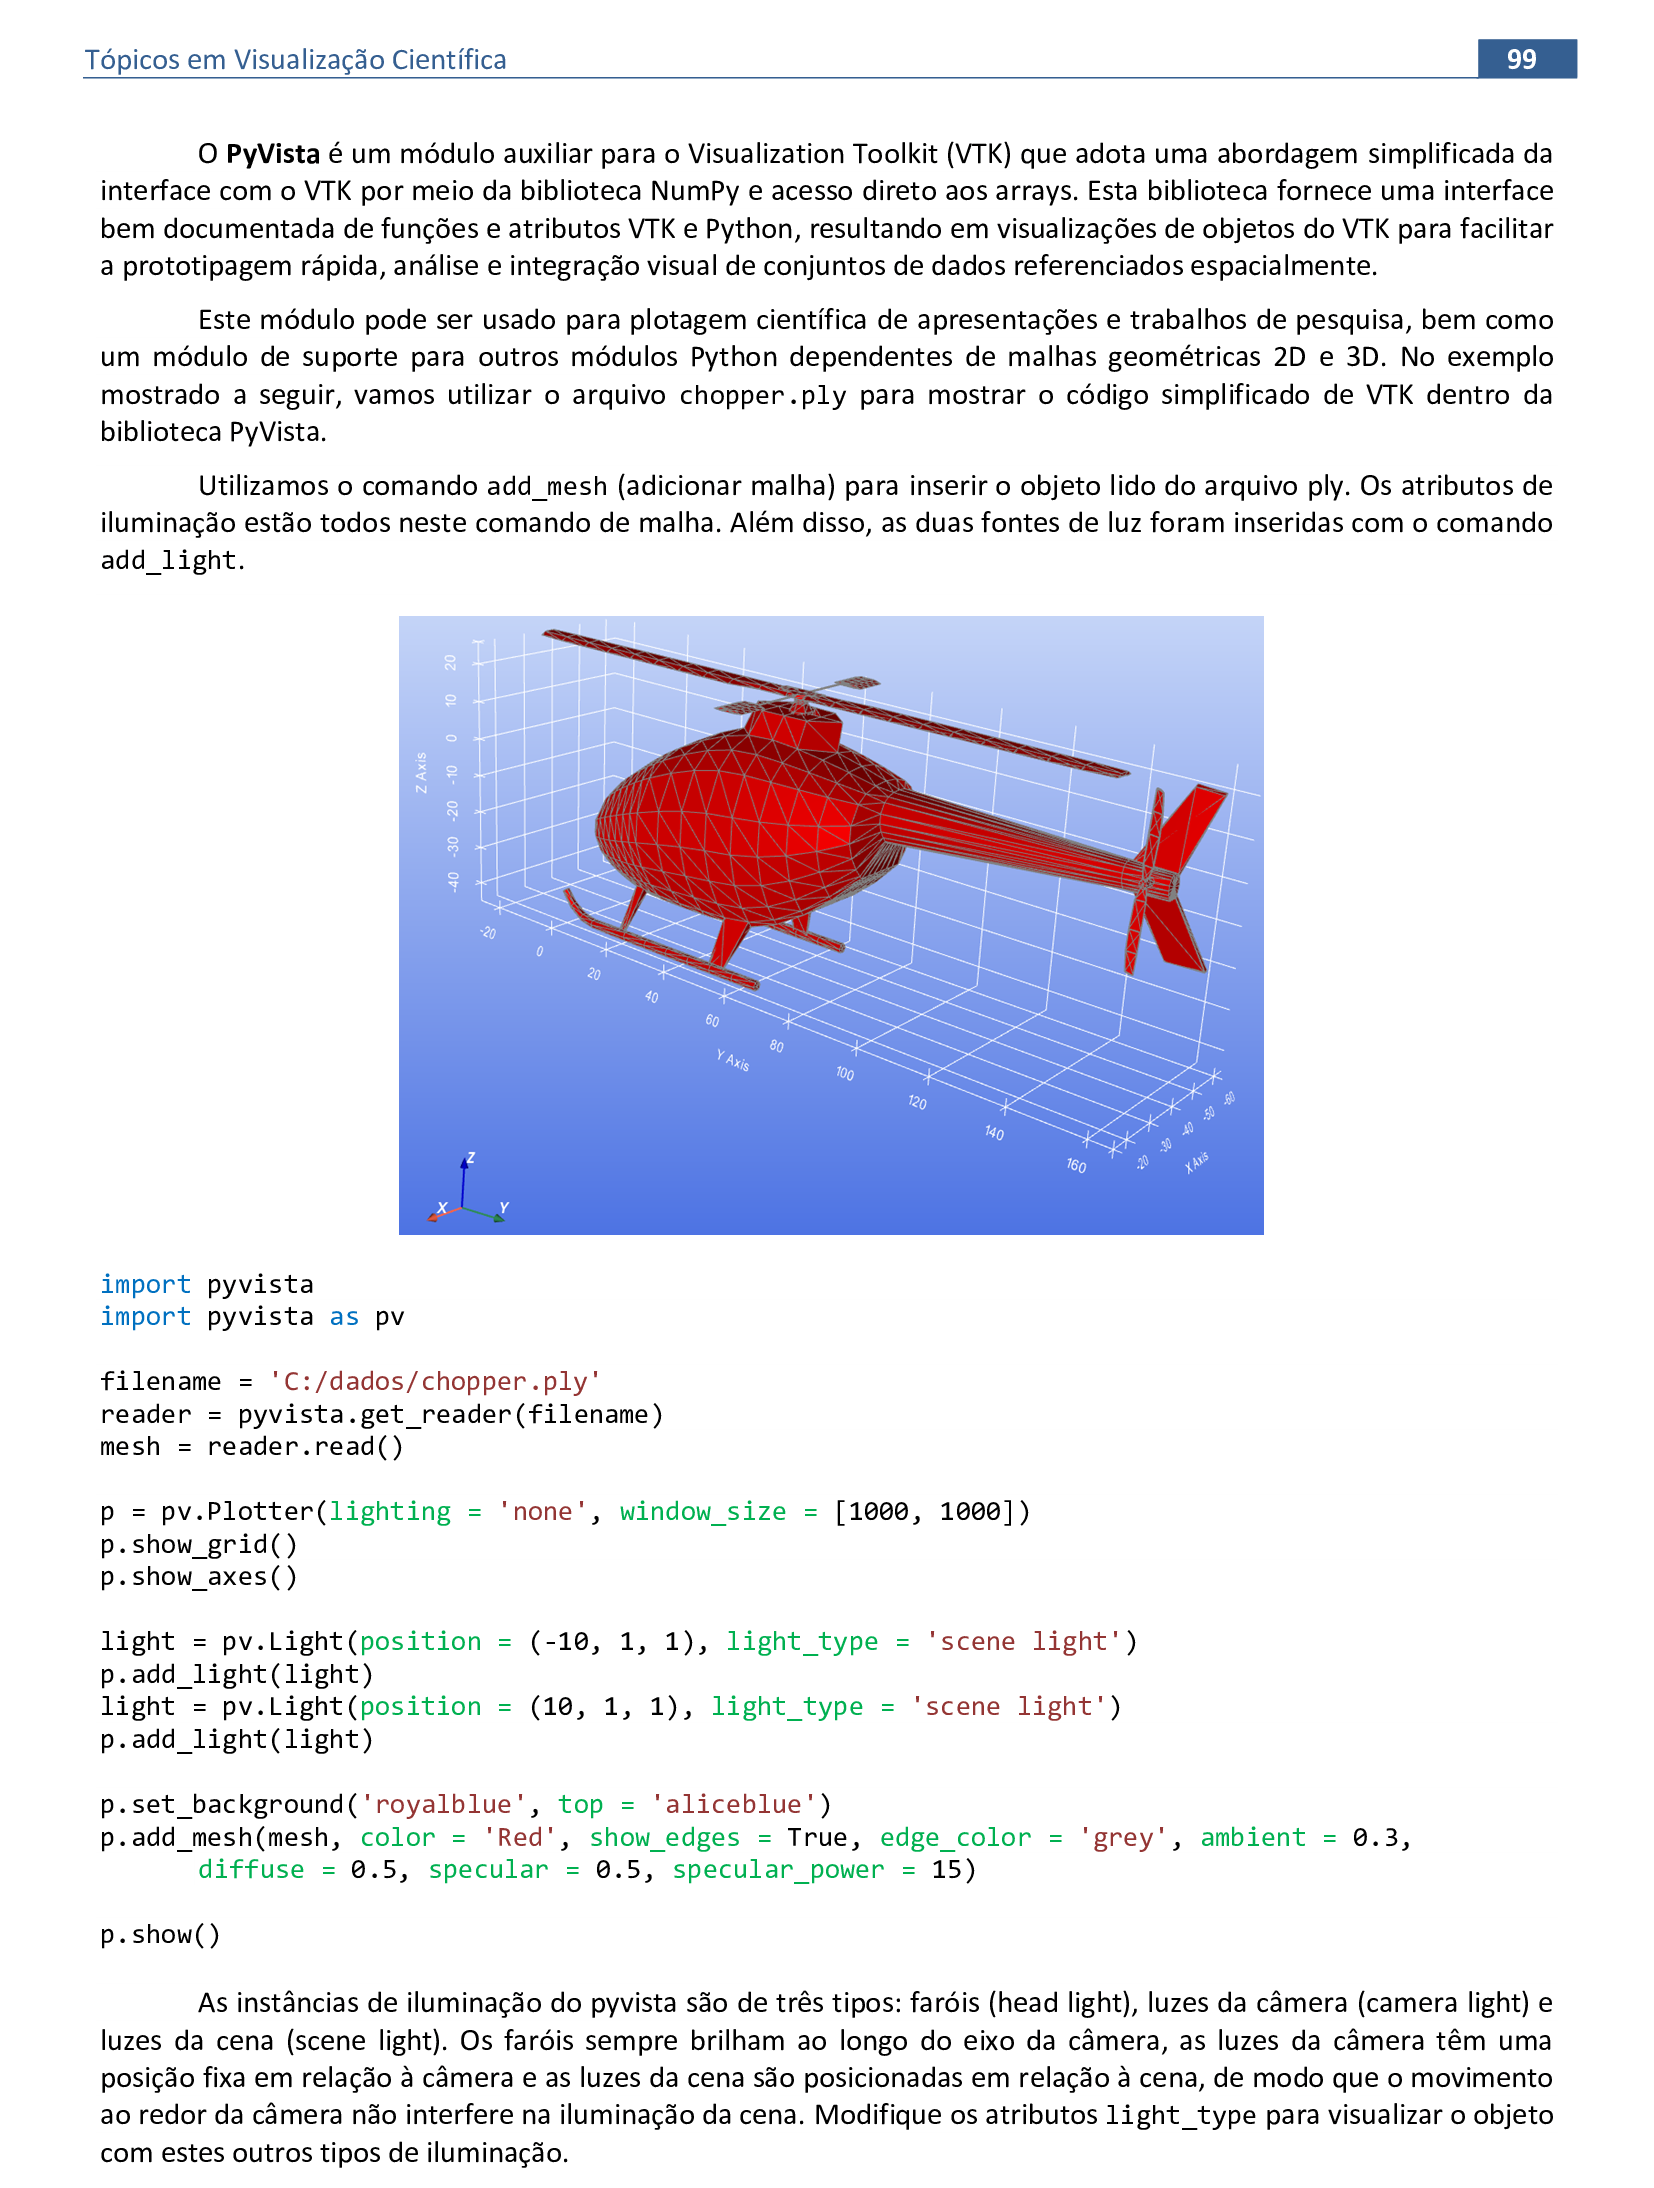
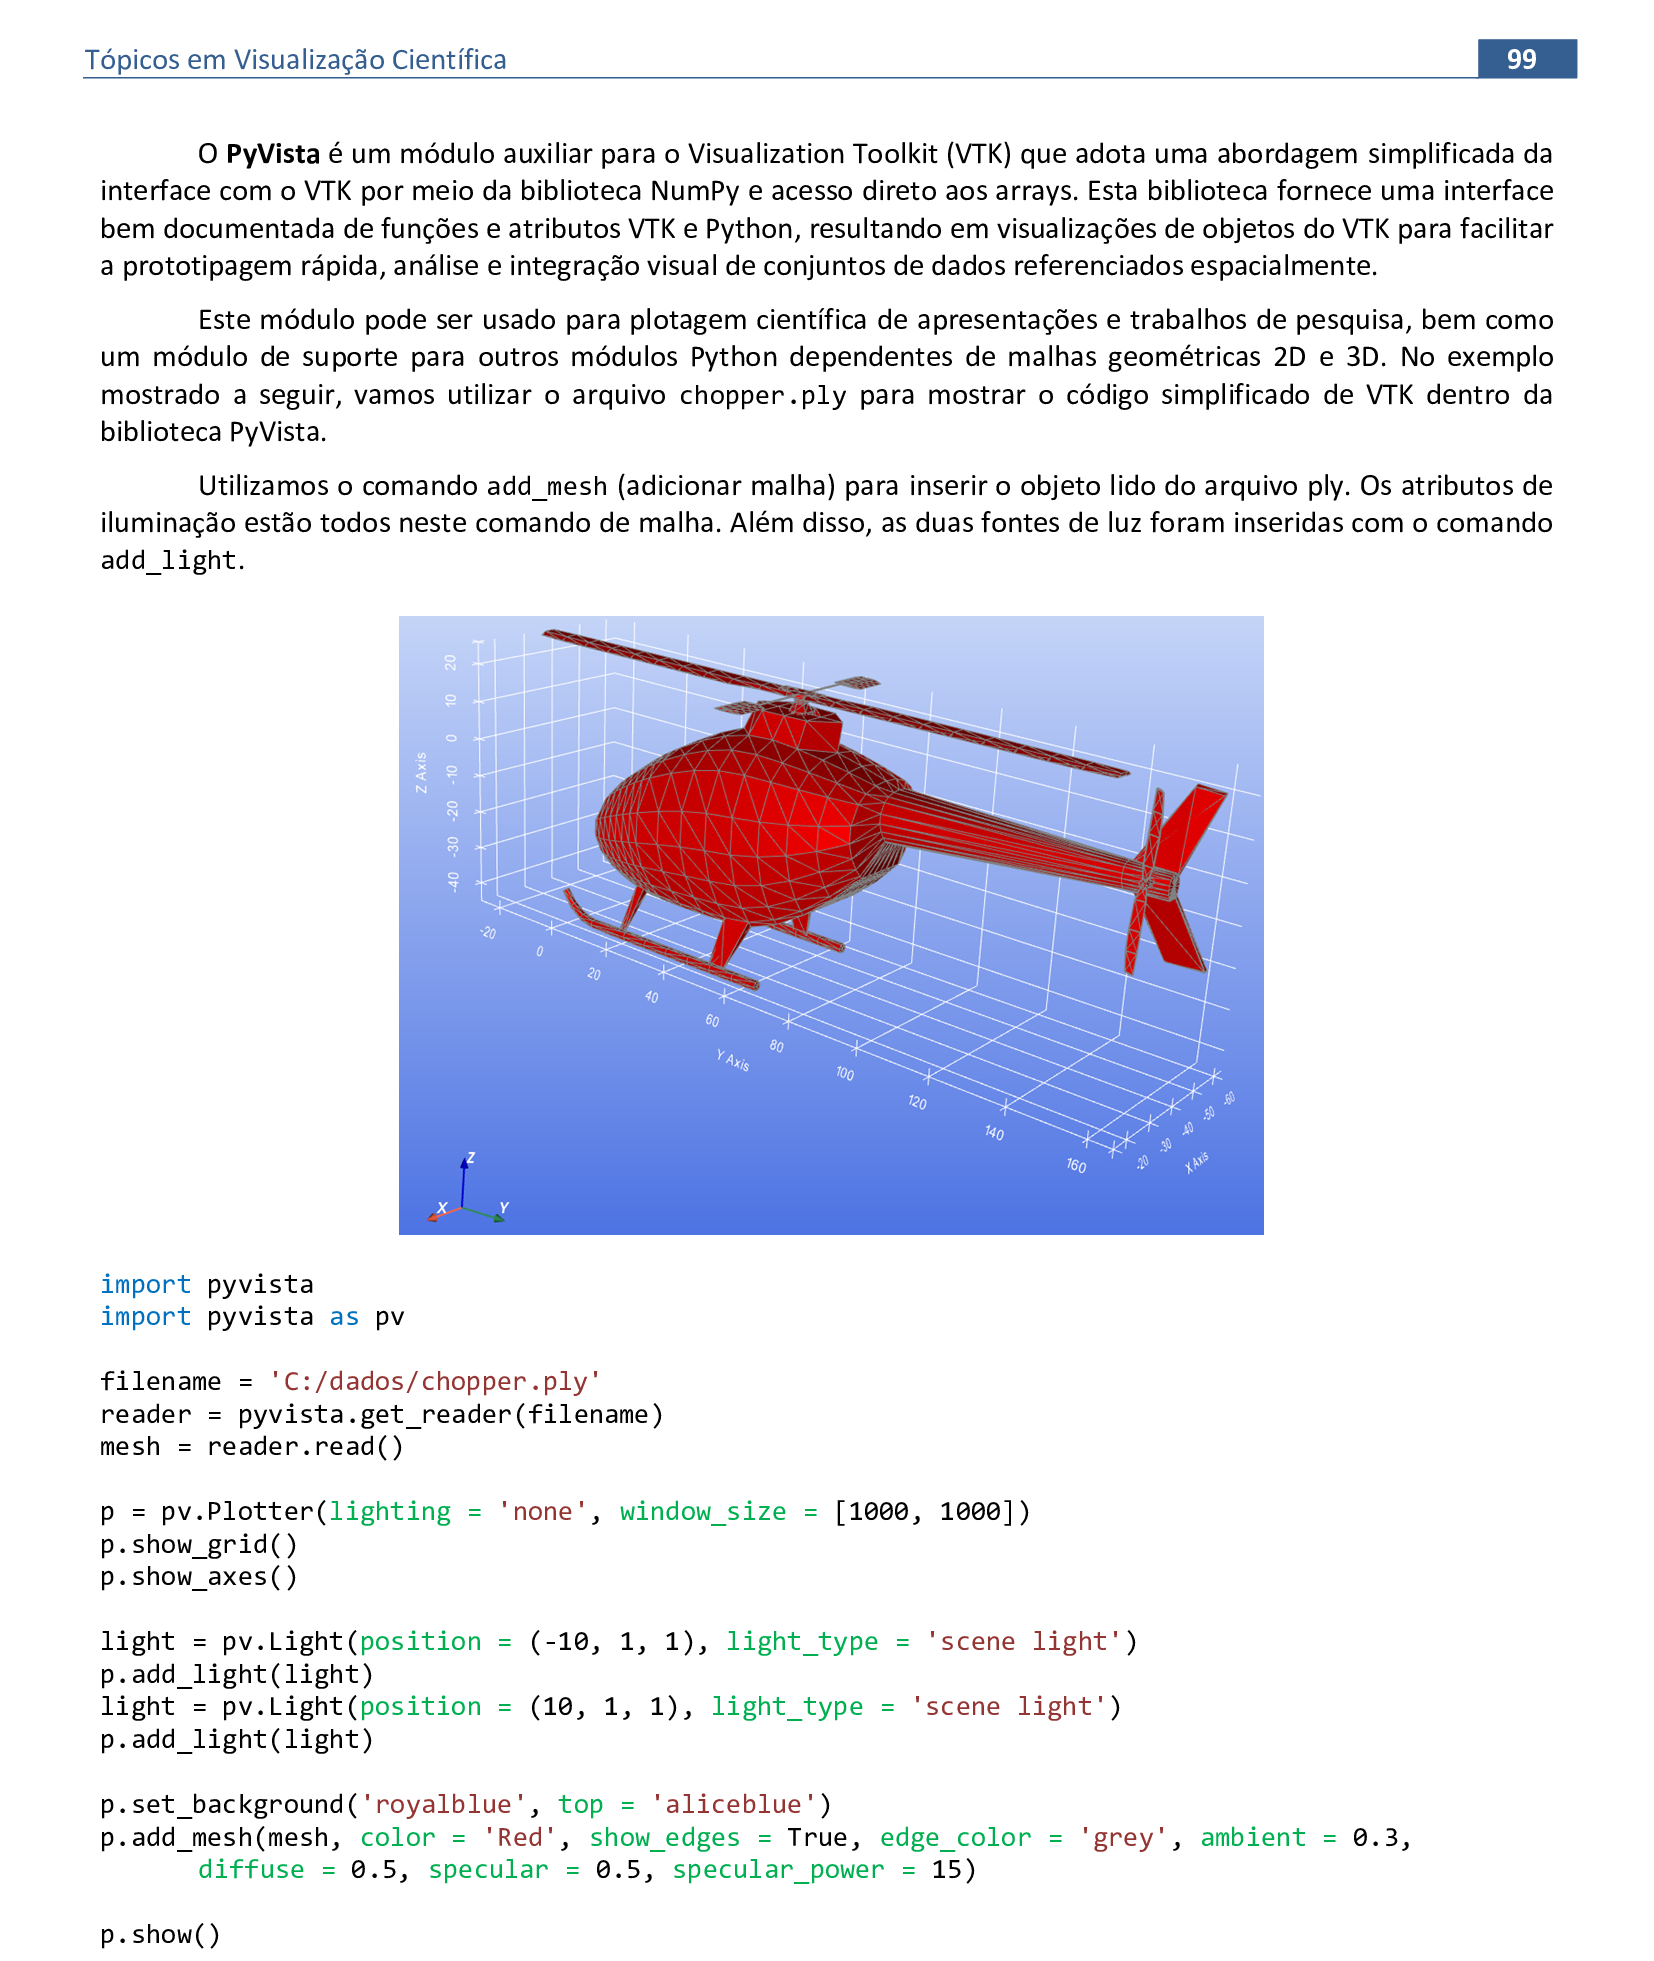
update

Changed region(s): [[0.0617, 0.0, 0.9559, 0.9954], [0.5859, 0.6843, 0.6167, 0.7155], [0.5242, 0.6843, 0.555, 0.7155]]

diff --git a/README.md b/README.md
@@ -1941,7 +1941,7 @@ if __name__ == '__main__':
   <p class="topop"><a href="#modulo6" class="topo">voltar ao topo</a></p>
   <img src="modulo6/59f0152f9f78561f6fb413c7e4f88ba0-97.png"/>
   <div class="combo"><details class="sub"><summary>&#x1f4c3; Código</summary>
-  <figcaption>Variação de iluminação specular com VTK:
+  <figcaption>Iluminação de 2 fontes de luz com VTK:
 <pre><code>import vtkmodules.vtkRenderingOpenGL2
 import vtkmodules.vtkInteractionStyle
 from vtkmodules.vtkCommonColor import vtkNamedColors
@@ -2055,6 +2055,32 @@ if __name__ == '__main__':
   </details></div>
   <p class="topop"><a href="#modulo6" class="topo">voltar ao topo</a></p>
   <img src="modulo6/59f0152f9f78561f6fb413c7e4f88ba0-98.png"/>
+  <div class="combo"><details class="sub"><summary>&#x1f4c3; Código</summary>
+  <figcaption>Criação de uma cena com Pyvista:
+<pre><code><a alt="biblioteca Pyvista">import pyvista</a>
+import pyvista as pv
+
+filename = 'C:/dados/chopper.ply'
+reader = pyvista.get_reader(filename)
+mesh = reader.read()
+
+p = <a alt="comando para renderizar o objeto 3D">pv.Plotter</a>(lighting = 'none', window_size = [1000, 1000])
+p.show_grid()
+p.show_axes()
+
+<a alt="comandos de iluminação">light =</a> pv.Light(position = (-10, 1, 1), light_type = 'scene light')
+p.add_light(light)
+light = pv.Light(position = (10, 1, 1), light_type = 'scene light')
+p.add_light(light)
+
+p.set_background('royalblue', top = 'aliceblue')
+<a alt="inserção do ator na cena: objeto 3D">p.add_mesh</a>(mesh, color = 'Red', show_edges = True, edge_color = 'grey', ambient = 0.3, 
+    diffuse = 0.5, specular = 0.5, specular_power = 15)
+
+p.show()
+</code></pre></figcaption>
+  </details></div>
+  <img src="modulo6/59f0152f9f78561f6fb413c7e4f88ba0-98a.png"/>
   <p class="topop"><a href="#modulo6" class="topo">voltar ao topo</a></p>
   <img src="modulo6/59f0152f9f78561f6fb413c7e4f88ba0-99.png"/>
   <p class="topop"><a href="#modulo6" class="topo">voltar ao topo</a></p>
